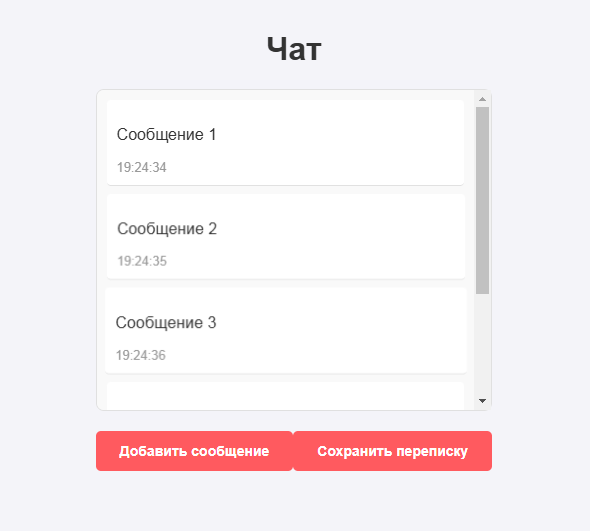
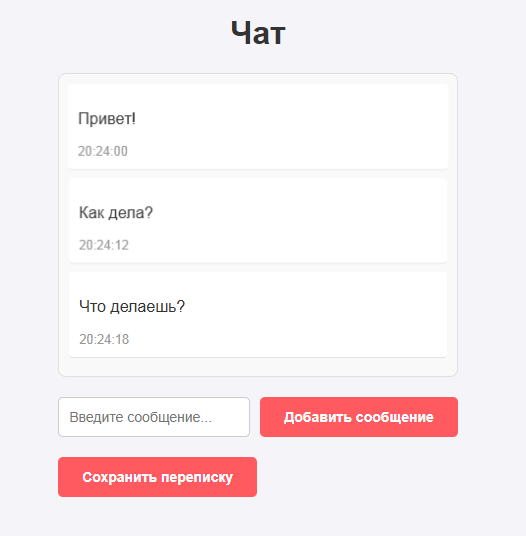
test_Vue

diff --git a/src/components/Chat.vue b/src/components/Chat.vue
@@ -2,6 +2,7 @@
   <div class="chat">
     <h1 class="title">Чат</h1>
     <div class="messages">
+      <p v-if="!messages.length" class="no-messages">Новых сообщений нет!</p>
       <Message 
         v-for="(message, index) in messages" 
         :key="index" 
@@ -9,13 +10,16 @@
         :timestamp="message.timestamp"
       />
     </div>
-    <button @click="addMessage">Добавить сообщение</button>
+    <div class="input-container">
+      <input v-model="newMessage" @keyup.enter="addMessage" placeholder="Введите сообщение..." />
+      <button @click="addMessage">Добавить сообщение</button>
+    </div>
     <SaveButton :messages="messages" />
   </div>
 </template>
 
 <script lang="ts">
-import { defineComponent, reactive } from 'vue';
+import { defineComponent, reactive, ref } from 'vue';
 import Message from './Message.vue';
 import SaveButton from './SaveButton.vue';
 
@@ -29,17 +33,21 @@ export default defineComponent({
   components: { Message, SaveButton },
   setup() {
     const messages = reactive<Message[]>([]);
+    const newMessage = ref('');
 
     const addMessage = () => {
+      if (!newMessage.value.trim()) return;
       const now = new Date();
       messages.push({
-        text: `Сообщение ${messages.length + 1}`,
+        text: newMessage.value.trim(),
         timestamp: now.toLocaleTimeString(),
       });
+      newMessage.value = '';
     };
 
     return {
       messages,
+      newMessage,
       addMessage,
     };
   },
@@ -65,6 +73,18 @@ export default defineComponent({
   overflow-y: auto;
   background-color: #f9f9f9;
   border-radius: 8px;
+}
+.input-container {
+  display: flex;
+  gap: 10px;
+  margin-bottom: 20px;
+}
+input {
+  flex: 1;
+  padding: 10px;
+  border: 1px solid #ccc;
+  border-radius: 5px;
+  font-size: 14px;
 }
 button {
   padding: 12px 24px;

diff --git a/README.md b/README.md
@@ -7,7 +7,7 @@
 
 ### Инструкция по запуску
 - Создайте папку для проекта и перейдите в неё.
-- Склонируйте репозиторий `git clone git@github.com:AplusO1/ReactReduxTS-3-Pages.git`
+- Склонируйте репозиторий `git clone git@github.com:AplusO1/Vue_EmulationWebSocket.git`
 - Установите зависимости `npm install`
 - Запускайте проект `npm run serve`
 - Запустить линтер `npm run lint`
